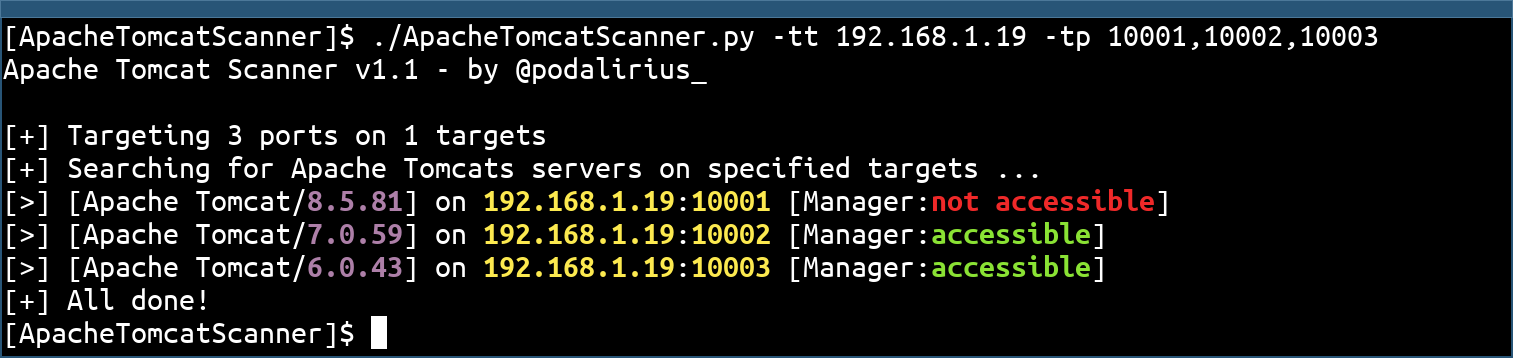
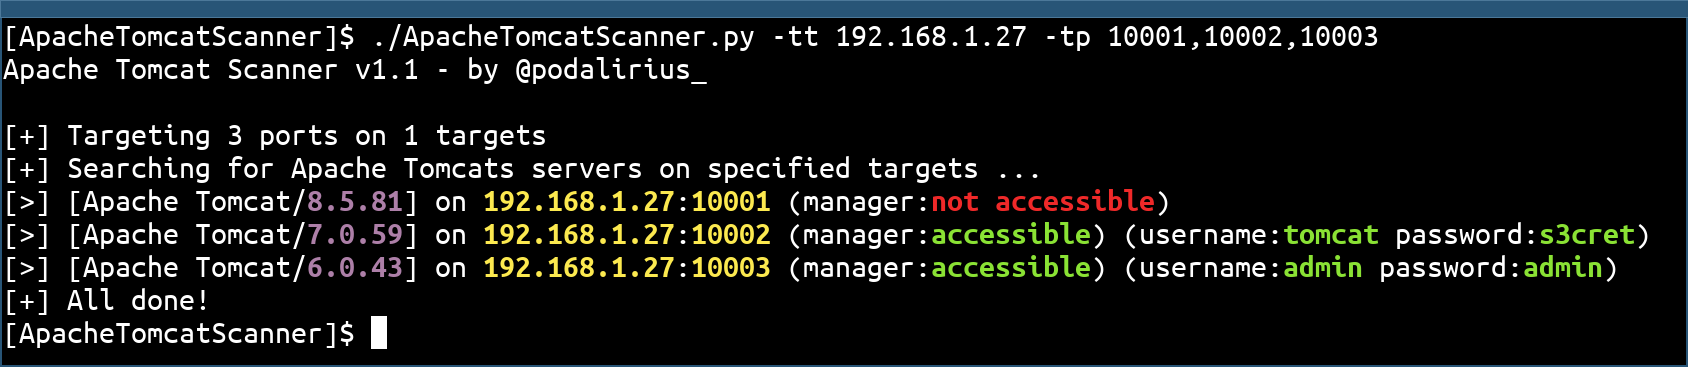
Release 1.2

Changed region(s): [[0.0, 0.0, 1.0, 0.9832], [0.0, 0.0615, 0.9319, 0.2458]]

diff --git a/apachetomcatscanner/utils/scan.py b/apachetomcatscanner/utils/scan.py
@@ -3,8 +3,9 @@
 # File name          : scan.py
 # Author             : Podalirius (@podalirius_)
 # Date created       : 29 Jul 2022
-import re
 
+import base64
+import re
 import requests
 
 
@@ -54,6 +55,31 @@ def get_version_from_malformed_http_request(target, port):
             return version
 
 
+def try_default_credentials(target, port):
+    found_credentials = []
+    url = "http://%s:%d/manager/html" % (target, port)
+    try:
+        couple_username_passwords = [
+            {"username": "admin", "password": "admin"},
+            {"username": "admin", "password": "tomcat"},
+            {"username": "tomcat", "password": "tomcat"},
+            {"username": "tomcat", "password": "s3cret"}
+        ]
+        for credentials in couple_username_passwords:
+            auth_string = bytes(credentials["username"] + ':' + credentials["password"], 'utf-8')
+            r = requests.post(
+                url,
+                headers={
+                    "Authorization": "Basic " + base64.b64encode(auth_string).decode('utf-8')
+                }
+            )
+            if r.status_code in [200, 403]:
+                found_credentials.append((r.status_code, credentials))
+        return found_credentials
+    except Exception as e:
+        return found_credentials
+
+
 def scan_worker(target, port, results, timeout=1):
     DEBUG = False
     if DEBUG: print("[debug] scan_worker('%s', %d)" % (target, port))
@@ -65,14 +91,22 @@ def scan_worker(target, port, results, timeout=1):
         result["manager_accessible"] = is_tomcat_manager_accessible(target, port)
         if DEBUG and result["manager_accessible"]: print("[debug] Manager is accessible")
 
+        credentials = []
         if result["manager_accessible"]:
             # Test for default credentials
-            pass
+            credentials = try_default_credentials(target, port)
 
-        print("[>] [Apache Tomcat/\x1b[1;95m%s\x1b[0m] on \x1b[1;93m%s\x1b[0m:\x1b[1;93m%d\x1b[0m [Manager:%s]" % (
+        str_found_creds = []
+        if len(credentials) != 0:
+            for statuscode, creds in credentials:
+                str_found_creds.append("(username:\x1b[1;92m%s\x1b[0m password:\x1b[1;92m%s\x1b[0m)" % (creds["username"], creds["password"]))
+
+        print("[>] [Apache Tomcat/\x1b[1;95m%s\x1b[0m] on \x1b[1;93m%s\x1b[0m:\x1b[1;93m%d\x1b[0m (manager:%s) %s" % (
                 result["version"],
                 target,
                 port,
-                ("\x1b[1;92maccessible\x1b[0m" if result["manager_accessible"] else "\x1b[1;91mnot accessible\x1b[0m")
+                ("\x1b[1;92maccessible\x1b[0m" if result["manager_accessible"] else "\x1b[1;91mnot accessible\x1b[0m"),
+                ' '.join(str_found_creds)
             )
         )
+

diff --git a/apachetomcatscanner/test_environement/test_environement.py b/apachetomcatscanner/test_environement/test_environement.py
@@ -9,9 +9,9 @@ import os
 
 
 instances = {
-    "tomcat_8_5_81": "docker run --rm -d --name tomcat_8_5_81 -p 10001:8080 tomcat:8.5.81-jdk8-corretto",
-    "tomcat_7_0_59": "docker run --rm -d --name tomcat_7_0_59 -p 10002:8080 tomcat:7.0.59",
-    "tomcat_6_0_43": "docker run --rm -d --name tomcat_6_0_43 -p 10003:8080 tomcat:6.0.43"
+    "tomcat_8_5_81": "docker run --rm -d --name tomcat_8_5_81 -p 10001:8080 -v $(pwd)/versions/8.5.81/tomcat-users.xml:/usr/local/tomcat/conf/tomcat-users.xml tomcat:8.5.81-jdk8-corretto",
+    "tomcat_7_0_59": "docker run --rm -d --name tomcat_7_0_59 -p 10002:8080 -v $(pwd)/versions/7.0.59/tomcat-users.xml:/usr/local/tomcat/conf/tomcat-users.xml tomcat:7.0.59",
+    "tomcat_6_0_43": "docker run --rm -d --name tomcat_6_0_43 -p 10003:8080 -v $(pwd)/versions/6.0.43/tomcat-users.xml:/usr/local/tomcat/conf/tomcat-users.xml tomcat:6.0.43"
 }
 
 

diff --git a/setup.py b/setup.py
@@ -14,7 +14,7 @@ with open('requirements.txt', 'r', encoding='utf-8') as f:
 
 setuptools.setup(
     name="apachetomcatscanner",
-    version="1.0",
+    version="1.2",
     description="",
     url="https://github.com/p0dalirius/ApacheTomcatScanner",
     author="Podalirius",

diff --git a/apachetomcatscanner/__main__.py b/apachetomcatscanner/__main__.py
@@ -11,7 +11,7 @@ from sectools.network.ip import is_ipv4_cidr, is_ipv4_addr, is_ipv6_addr, expand
 from concurrent.futures import ThreadPoolExecutor
 
 
-VERSION = "1.1"
+VERSION = "1.2"
 
 banner = """Apache Tomcat Scanner v%s - by @podalirius_\n""" % VERSION
 
